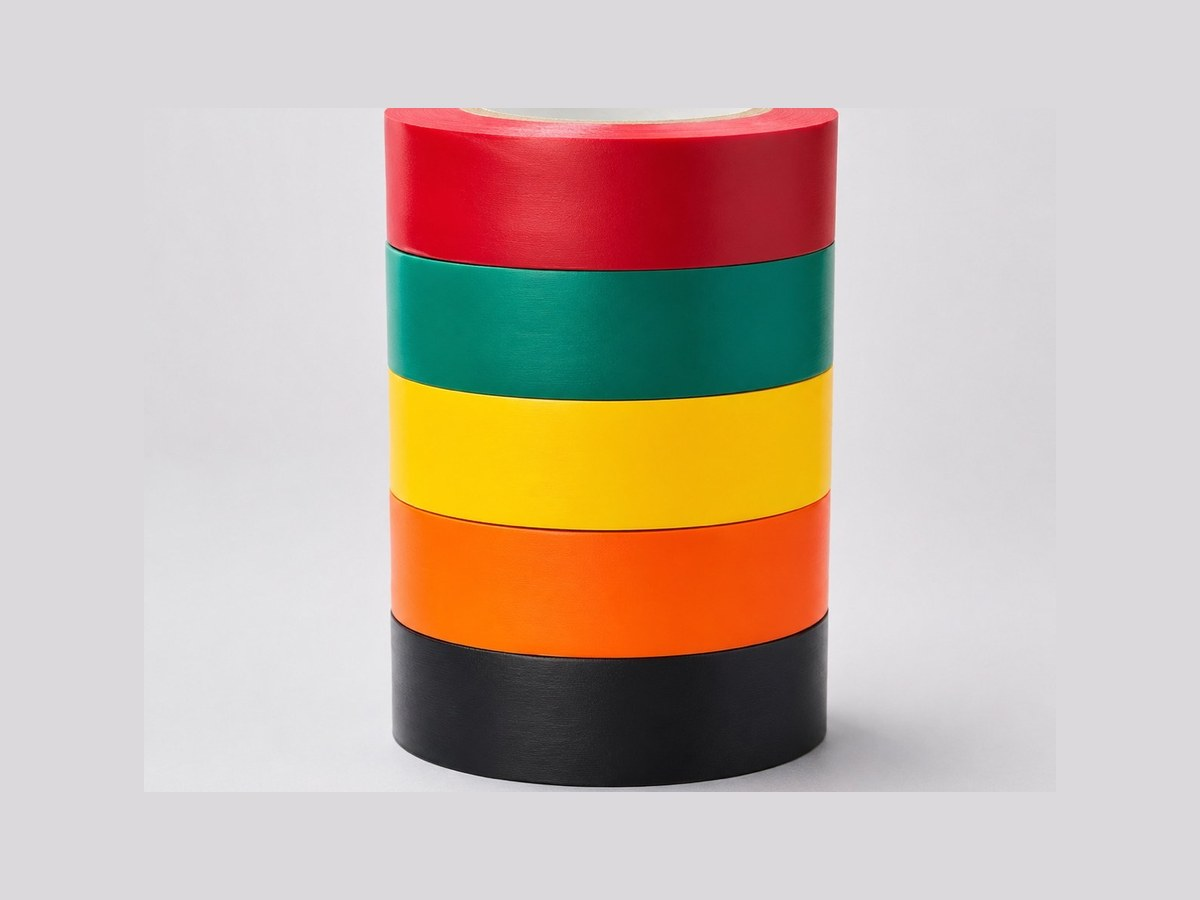
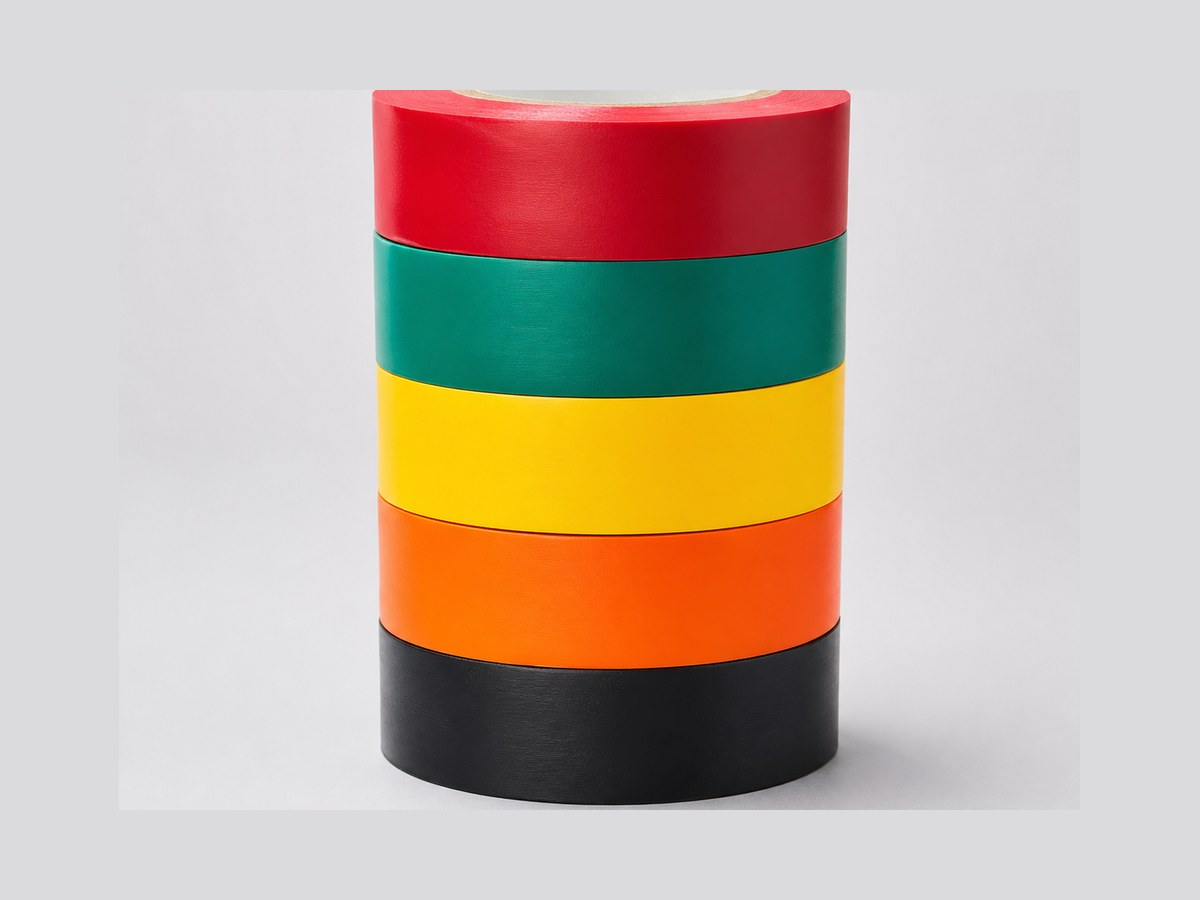
产品图调整：图片铺满容器且完整显示，LY6524/LY6512上下留10%空间
- 详情页/首页主图: contain + 100%，4:3容器与4:3图片完美铺满不裁切
- 缩略卡: aspect-ratio 4/3 + cover 铺满
- LY6524: 产品从100%缩至72%居中（背景灰蓝）
- LY6524/LY6512: 产品主体上下各留10%空间

Changed region(s): [[0.3083, 0.0933, 0.8017, 0.9022], [0.4008, 0.4356, 0.6167, 0.4667]]

diff --git a/assets/css/styles.css b/assets/css/styles.css
@@ -37,7 +37,7 @@ button,input,textarea,select{font:inherit}
 .hero-content{position:relative;z-index:3;max-width:740px;margin-left:3vw}.eyebrow,.kicker{text-transform:uppercase;letter-spacing:.2em;font-size:11px;font-weight:700;color:var(--green)}.eyebrow{display:flex;align-items:center;gap:12px}.eyebrow span{width:46px;height:1px;background:var(--green)}
 h1{font-size:clamp(52px,6.4vw,108px);line-height:.94;letter-spacing:-.052em;text-transform:uppercase;margin:28px 0 30px;max-width:1000px}h1 em{font-style:normal;color:var(--green)}.hero-content>p{max-width:610px;color:#c5d0d2;font-size:18px}.hero-actions{display:flex;gap:14px;margin-top:35px}.hero-meta{display:flex;gap:58px;margin-top:64px;padding-top:25px;border-top:1px solid var(--line);max-width:710px}.hero-meta div{display:flex;flex-direction:column}.hero-meta strong{font-size:22px;color:#fff}.hero-meta span{font-size:10px;color:#9aabad;text-transform:uppercase;letter-spacing:.12em}.hero-badges{position:absolute;right:7vw;bottom:68px;z-index:3;display:grid;grid-template-columns:repeat(2,1fr);gap:7px}.hero-badges span{font-size:9px;letter-spacing:.13em;border:1px solid rgba(255,255,255,.2);padding:10px 12px;background:rgba(4,16,24,.65)}.scroll-cue{position:absolute;left:5vw;bottom:28px;z-index:3;display:flex;align-items:center;gap:12px;font-size:9px;text-transform:uppercase;letter-spacing:.14em;color:#9fb0b3}.scroll-cue i{width:60px;height:1px;background:var(--green)}
 .section{padding:120px 8vw;position:relative}.vertical-label{position:absolute;left:2vw;top:120px;writing-mode:vertical-rl;text-orientation:mixed;font-size:9px;letter-spacing:.16em;color:#607078}.section-number{font-weight:700}.intro{display:grid;grid-template-columns:minmax(0,1.55fr) minmax(280px,.7fr);gap:10vw;align-items:end}.intro h2,.section-head h2,.application h2,.manufacturing-preview h2,.markets h2,.quality-preview h2,.cta h2,.page-hero h1{font-size:clamp(38px,4.5vw,72px);line-height:1.03;letter-spacing:-.045em;margin:18px 0 0}.intro-note p{font-size:17px;color:#4d5b60}.text-link{display:inline-flex;gap:12px;align-items:center;margin-top:20px;font-size:12px;text-transform:uppercase;letter-spacing:.12em;font-weight:700}.text-link span{color:var(--green);font-size:18px}.text-link.light{color:#fff}
-.products{padding-top:125px}.section-head{display:flex;justify-content:space-between;align-items:end;gap:30px;margin-bottom:60px}.product-stage{display:grid;grid-template-columns:1.1fr 1fr;border:1px solid var(--line)}.product-feature{display:grid;grid-template-columns:1.05fr .95fr;min-height:650px;border-right:1px solid var(--line)}.product-media{overflow:hidden;display:grid;place-items:center}.product-media img{width:100%;height:100%;object-fit:contain;object-position:center;transition:.7s}.product-feature:hover .product-media img{transform:scale(1.045) rotate(-1deg)}.soft-white{background:linear-gradient(145deg,#f6f8f5,#dfe6e1)}.product-copy{padding:55px 42px;display:flex;flex-direction:column;justify-content:center}.product-index{font-size:11px;color:var(--green);letter-spacing:.18em}.product-type{text-transform:uppercase;color:#9fb1b5;font-size:10px;letter-spacing:.15em}.product-copy h3,.product-card h3{font-size:33px;line-height:1.05;margin:10px 0 20px;letter-spacing:-.035em}.product-copy>p{color:#aebfc1}.spec-row{display:flex;gap:8px;flex-wrap:wrap;padding:0;margin:24px 0;list-style:none}.spec-row li{padding:8px 9px;border:1px solid var(--line);font-size:10px;color:#cbd5d6}.product-copy>a{font-size:11px;text-transform:uppercase;letter-spacing:.14em;color:var(--green)}.product-grid-small{display:grid;grid-template-columns:1fr 1fr}.product-card{padding:28px;border-right:1px solid var(--line);border-bottom:1px solid var(--line);min-height:325px}.product-card:nth-child(2n){border-right:0}.product-card:nth-last-child(-n+2){border-bottom:0}.card-top{display:flex;justify-content:space-between;color:var(--green);font-size:10px;letter-spacing:.14em}.card-top small{color:#8ea0a4;text-transform:uppercase}.product-thumb{height:145px;margin:18px 0;overflow:hidden}.product-thumb img{height:100%;width:100%;object-fit:contain;object-position:center;transition:.5s}.product-card:hover img{transform:scale(1.07)}.product-card h3{font-size:21px;margin:10px 0}.product-card p{font-size:11px;color:#91a3a6;margin:0}
+.products{padding-top:125px}.section-head{display:flex;justify-content:space-between;align-items:end;gap:30px;margin-bottom:60px}.product-stage{display:grid;grid-template-columns:1.1fr 1fr;border:1px solid var(--line)}.product-feature{display:grid;grid-template-columns:1.05fr .95fr;min-height:650px;border-right:1px solid var(--line)}.product-media{overflow:hidden;display:grid;place-items:center}.product-media img{width:100%;height:100%;object-fit:contain;object-position:center;transition:.7s}.product-feature:hover .product-media img{transform:scale(1.045) rotate(-1deg)}.soft-white{background:linear-gradient(145deg,#f6f8f5,#dfe6e1)}.product-copy{padding:55px 42px;display:flex;flex-direction:column;justify-content:center}.product-index{font-size:11px;color:var(--green);letter-spacing:.18em}.product-type{text-transform:uppercase;color:#9fb1b5;font-size:10px;letter-spacing:.15em}.product-copy h3,.product-card h3{font-size:33px;line-height:1.05;margin:10px 0 20px;letter-spacing:-.035em}.product-copy>p{color:#aebfc1}.spec-row{display:flex;gap:8px;flex-wrap:wrap;padding:0;margin:24px 0;list-style:none}.spec-row li{padding:8px 9px;border:1px solid var(--line);font-size:10px;color:#cbd5d6}.product-copy>a{font-size:11px;text-transform:uppercase;letter-spacing:.14em;color:var(--green)}.product-grid-small{display:grid;grid-template-columns:1fr 1fr}.product-card{padding:28px;border-right:1px solid var(--line);border-bottom:1px solid var(--line);min-height:325px}.product-card:nth-child(2n){border-right:0}.product-card:nth-last-child(-n+2){border-bottom:0}.card-top{display:flex;justify-content:space-between;color:var(--green);font-size:10px;letter-spacing:.14em}.card-top small{color:#8ea0a4;text-transform:uppercase}.product-thumb{aspect-ratio:4/3;margin:18px 0;overflow:hidden}.product-thumb img{height:100%;width:100%;object-fit:cover;object-position:center;transition:.5s}.product-card:hover img{transform:scale(1.07)}.product-card h3{font-size:21px;margin:10px 0}.product-card p{font-size:11px;color:#91a3a6;margin:0}
 .application-layout{display:grid;grid-template-columns:.72fr 1.28fr;align-items:center;gap:6vw}.app-copy>p:not(.kicker){color:#526167;font-size:16px}.app-list{display:flex;flex-wrap:wrap;gap:10px;margin-top:33px}.app-chip{border:1px solid rgba(7,19,29,.2);background:transparent;padding:10px 13px;text-transform:uppercase;font-size:9px;letter-spacing:.13em;cursor:pointer}.app-chip.active,.app-chip:hover{background:var(--ink);color:#fff;border-color:var(--ink)}.app-visual{position:relative}.app-visual img{mix-blend-mode:multiply}.hotspot{position:absolute;font-size:9px;text-transform:uppercase;letter-spacing:.1em;color:#0b1820}.hotspot i{display:inline-block;width:10px;height:10px;border-radius:50%;background:var(--green);box-shadow:0 0 0 8px rgba(120,216,27,.15);margin-right:8px}.hs1{left:30%;top:23%}.hs2{right:10%;top:28%}.hs3{left:44%;bottom:20%}.hs4{right:28%;bottom:28%}
 .performance{padding:115px 8vw;position:relative}.performance-line{position:absolute;left:0;right:0;top:50%;height:1px;background:var(--line)}.perf-title{display:flex;gap:28px;align-items:center;margin-bottom:48px}.perf-title span{color:var(--green);font-size:11px;letter-spacing:.15em}.perf-title h2{font-size:clamp(38px,4.5vw,70px);margin:0;letter-spacing:-.045em}.perf-grid{display:grid;grid-template-columns:repeat(4,1fr);border:1px solid var(--line)}.perf-card{min-height:400px;padding:35px 26px;border-right:1px solid var(--line);background:rgba(255,255,255,.015)}.perf-card:last-child{border-right:0}.perf-card small{color:var(--green)}.perf-card h3{font-size:24px;margin:55px 0 25px}.perf-card p{color:#96a8ab;font-size:13px;margin-top:45px}.wave{height:70px;display:flex;align-items:center;gap:8px}.wave i{display:block;width:2px;background:var(--green);animation:wave 1.7s ease-in-out infinite}.wave i:nth-child(1),.wave i:nth-child(7){height:15px}.wave i:nth-child(2),.wave i:nth-child(6){height:35px}.wave i:nth-child(3),.wave i:nth-child(5){height:58px}.wave i:nth-child(4){height:70px}@keyframes wave{50%{transform:scaleY(.42);opacity:.5}}.abrasion-graphic{height:70px;display:flex;gap:10px;align-items:center}.abrasion-graphic span{height:12px;flex:1;border:1px solid rgba(255,255,255,.3);transform:skewX(-20deg)}.abrasion-graphic span:nth-child(3),.abrasion-graphic span:nth-child(4){background:var(--green);border-color:var(--green)}.heat-graphic{height:70px;display:flex;gap:12px;align-items:end}.heat-graphic i{width:14px;border-radius:10px 10px 0 0;background:linear-gradient(transparent,var(--green))}.heat-graphic i:nth-child(1){height:34px}.heat-graphic i:nth-child(2){height:54px}.heat-graphic i:nth-child(3){height:70px}.eco-orbit{height:70px;position:relative;width:70px;border:1px solid rgba(120,216,27,.35);border-radius:50%;display:grid;place-items:center;color:var(--green);font-weight:700}.eco-orbit:before,.eco-orbit:after{content:"";position:absolute;inset:-9px;border:1px solid rgba(120,216,27,.15);border-radius:50%}.eco-orbit:after{inset:-18px}.eco-orbit i{position:absolute;width:7px;height:7px;background:var(--green);border-radius:50%;right:-4px}
 .process-strip{display:grid;grid-template-columns:repeat(4,1fr);border:1px solid rgba(7,19,29,.14)}.process-card{position:relative;min-height:420px;overflow:hidden;border-right:1px solid rgba(7,19,29,.14)}.process-card:last-child{border-right:0}.process-card img{width:100%;height:100%;object-fit:cover;filter:saturate(.6) contrast(1.05);transition:.55s}.process-card:after{content:"";position:absolute;inset:0;background:linear-gradient(transparent 30%,rgba(4,14,20,.91))}.process-card:hover img{transform:scale(1.06);filter:saturate(1)}.process-card>span{position:absolute;top:20px;left:20px;z-index:2;color:#fff;font-size:11px}.process-card>div{position:absolute;left:24px;right:24px;bottom:23px;z-index:2;color:#fff}.process-card small{text-transform:uppercase;letter-spacing:.15em;color:var(--green)}.process-card h3{font-size:20px;line-height:1.2;margin:8px 0 0}
